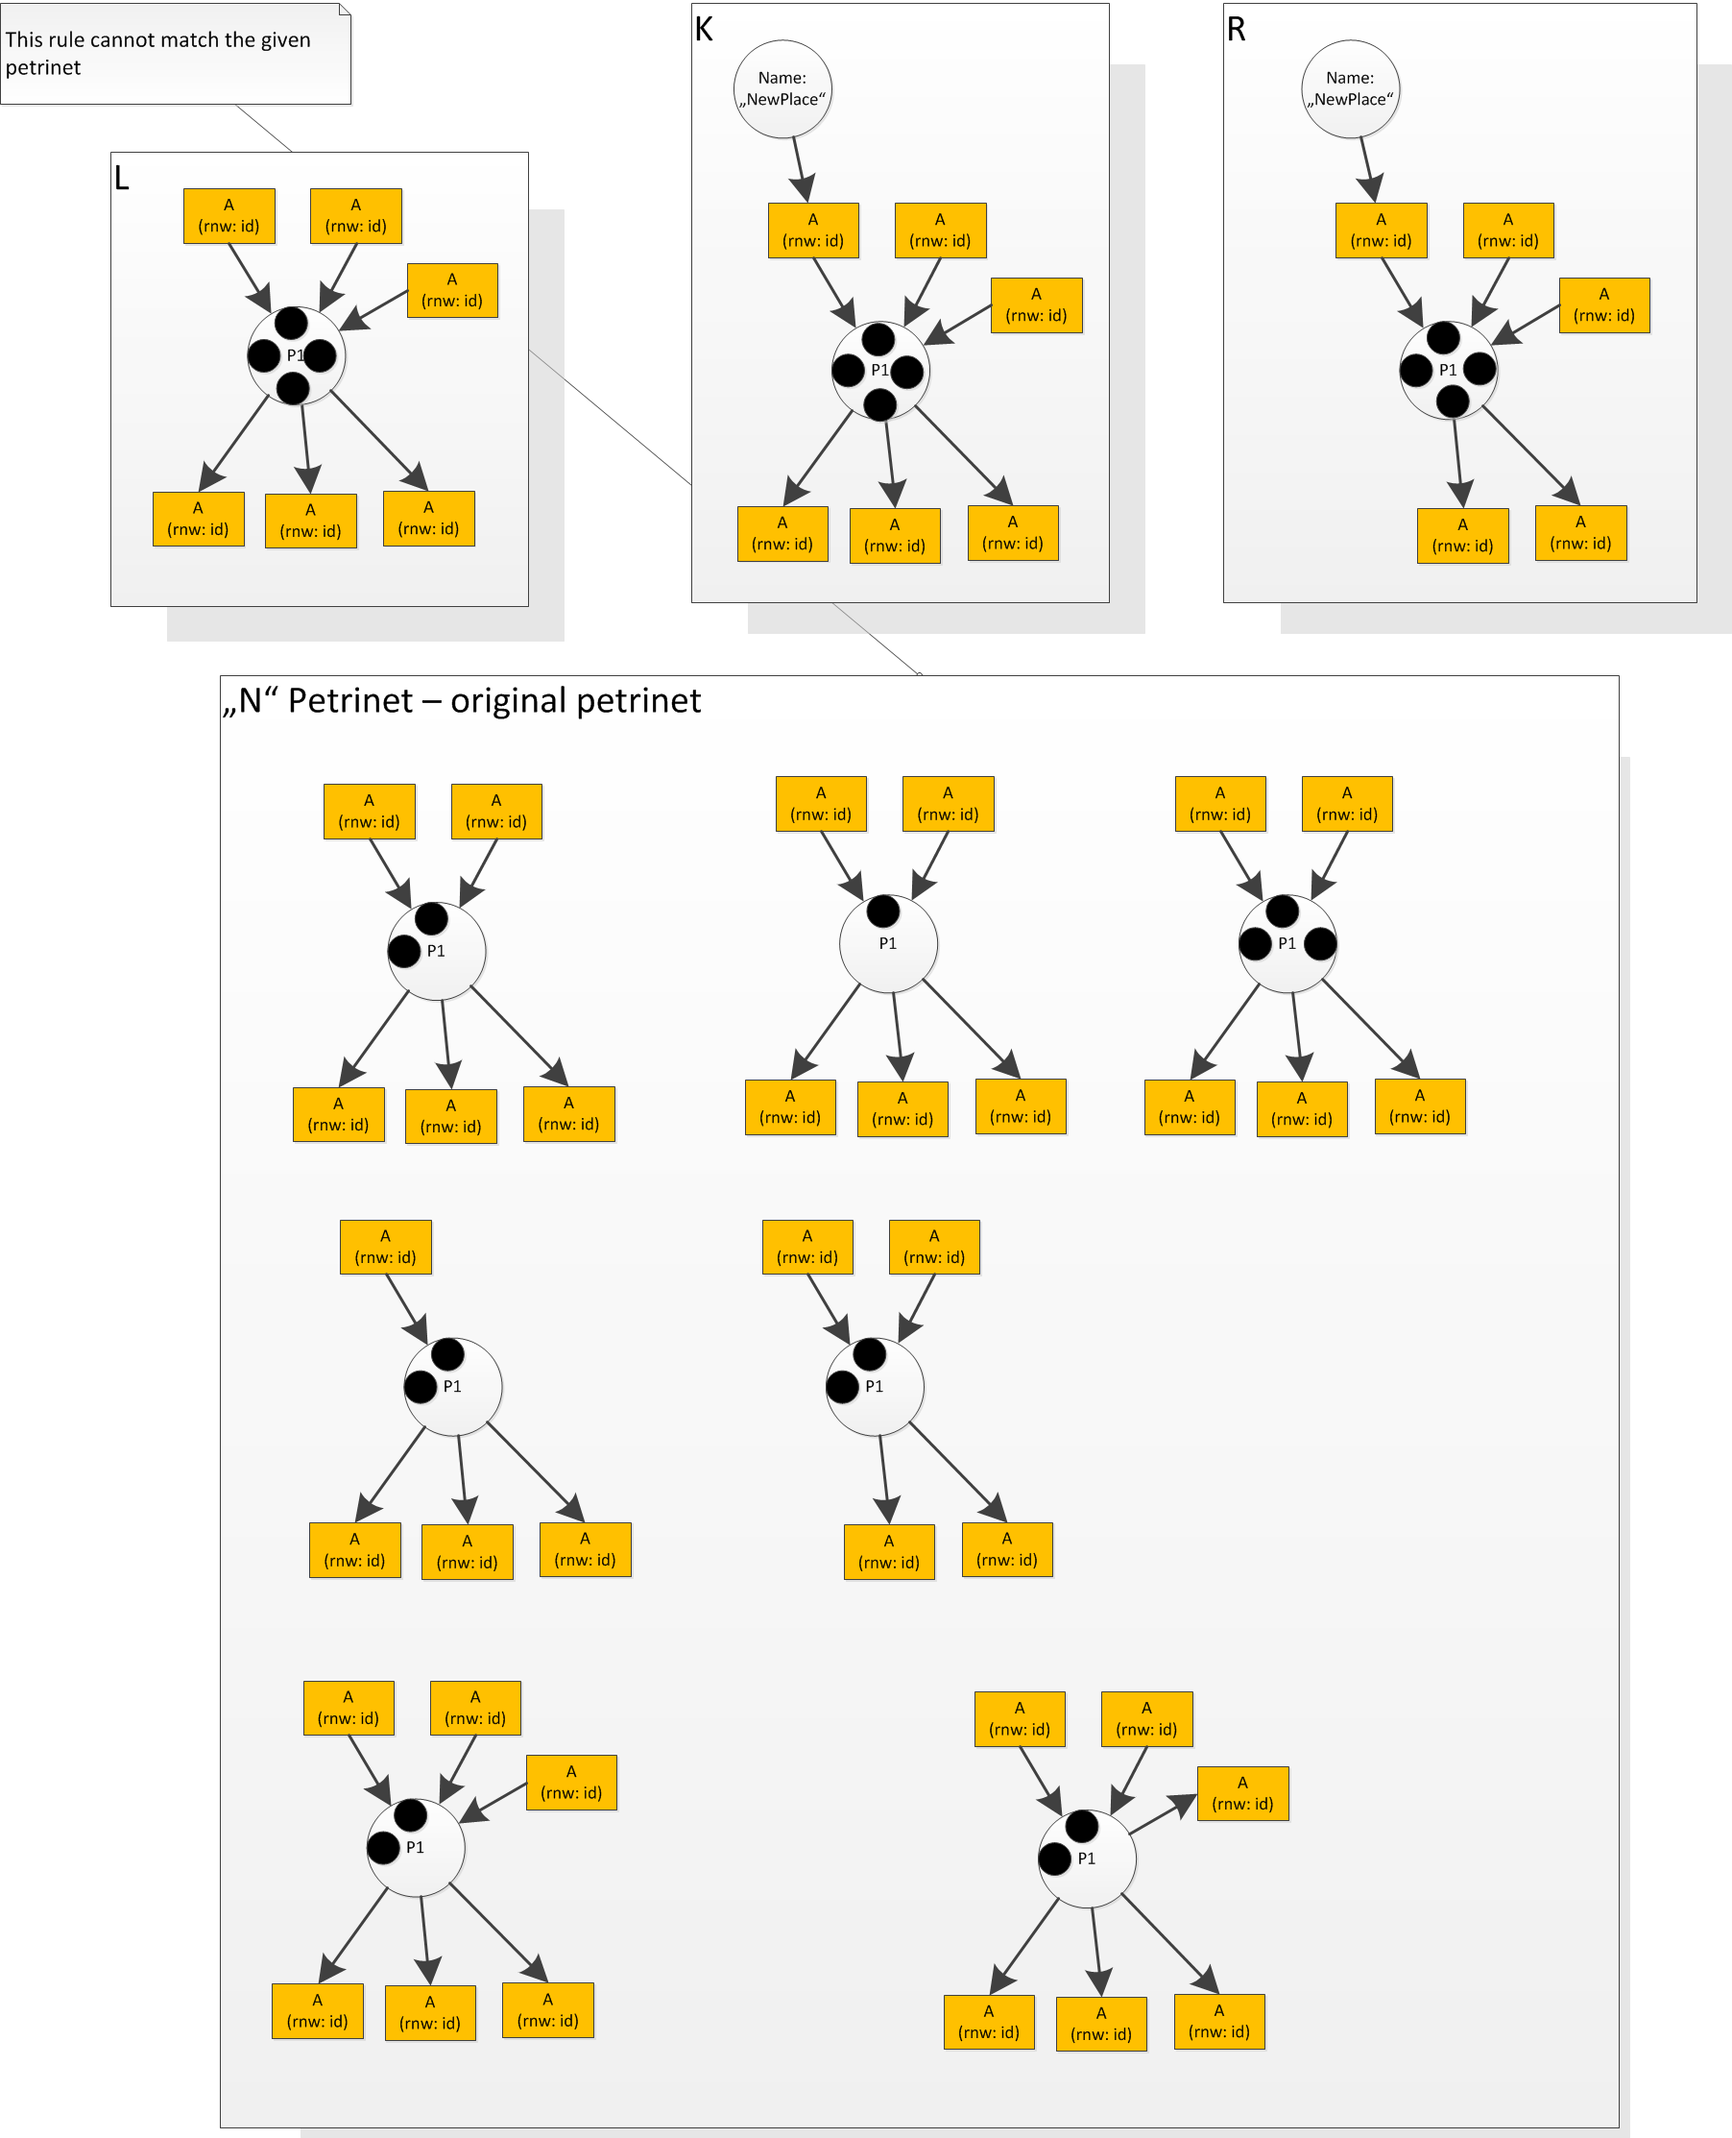
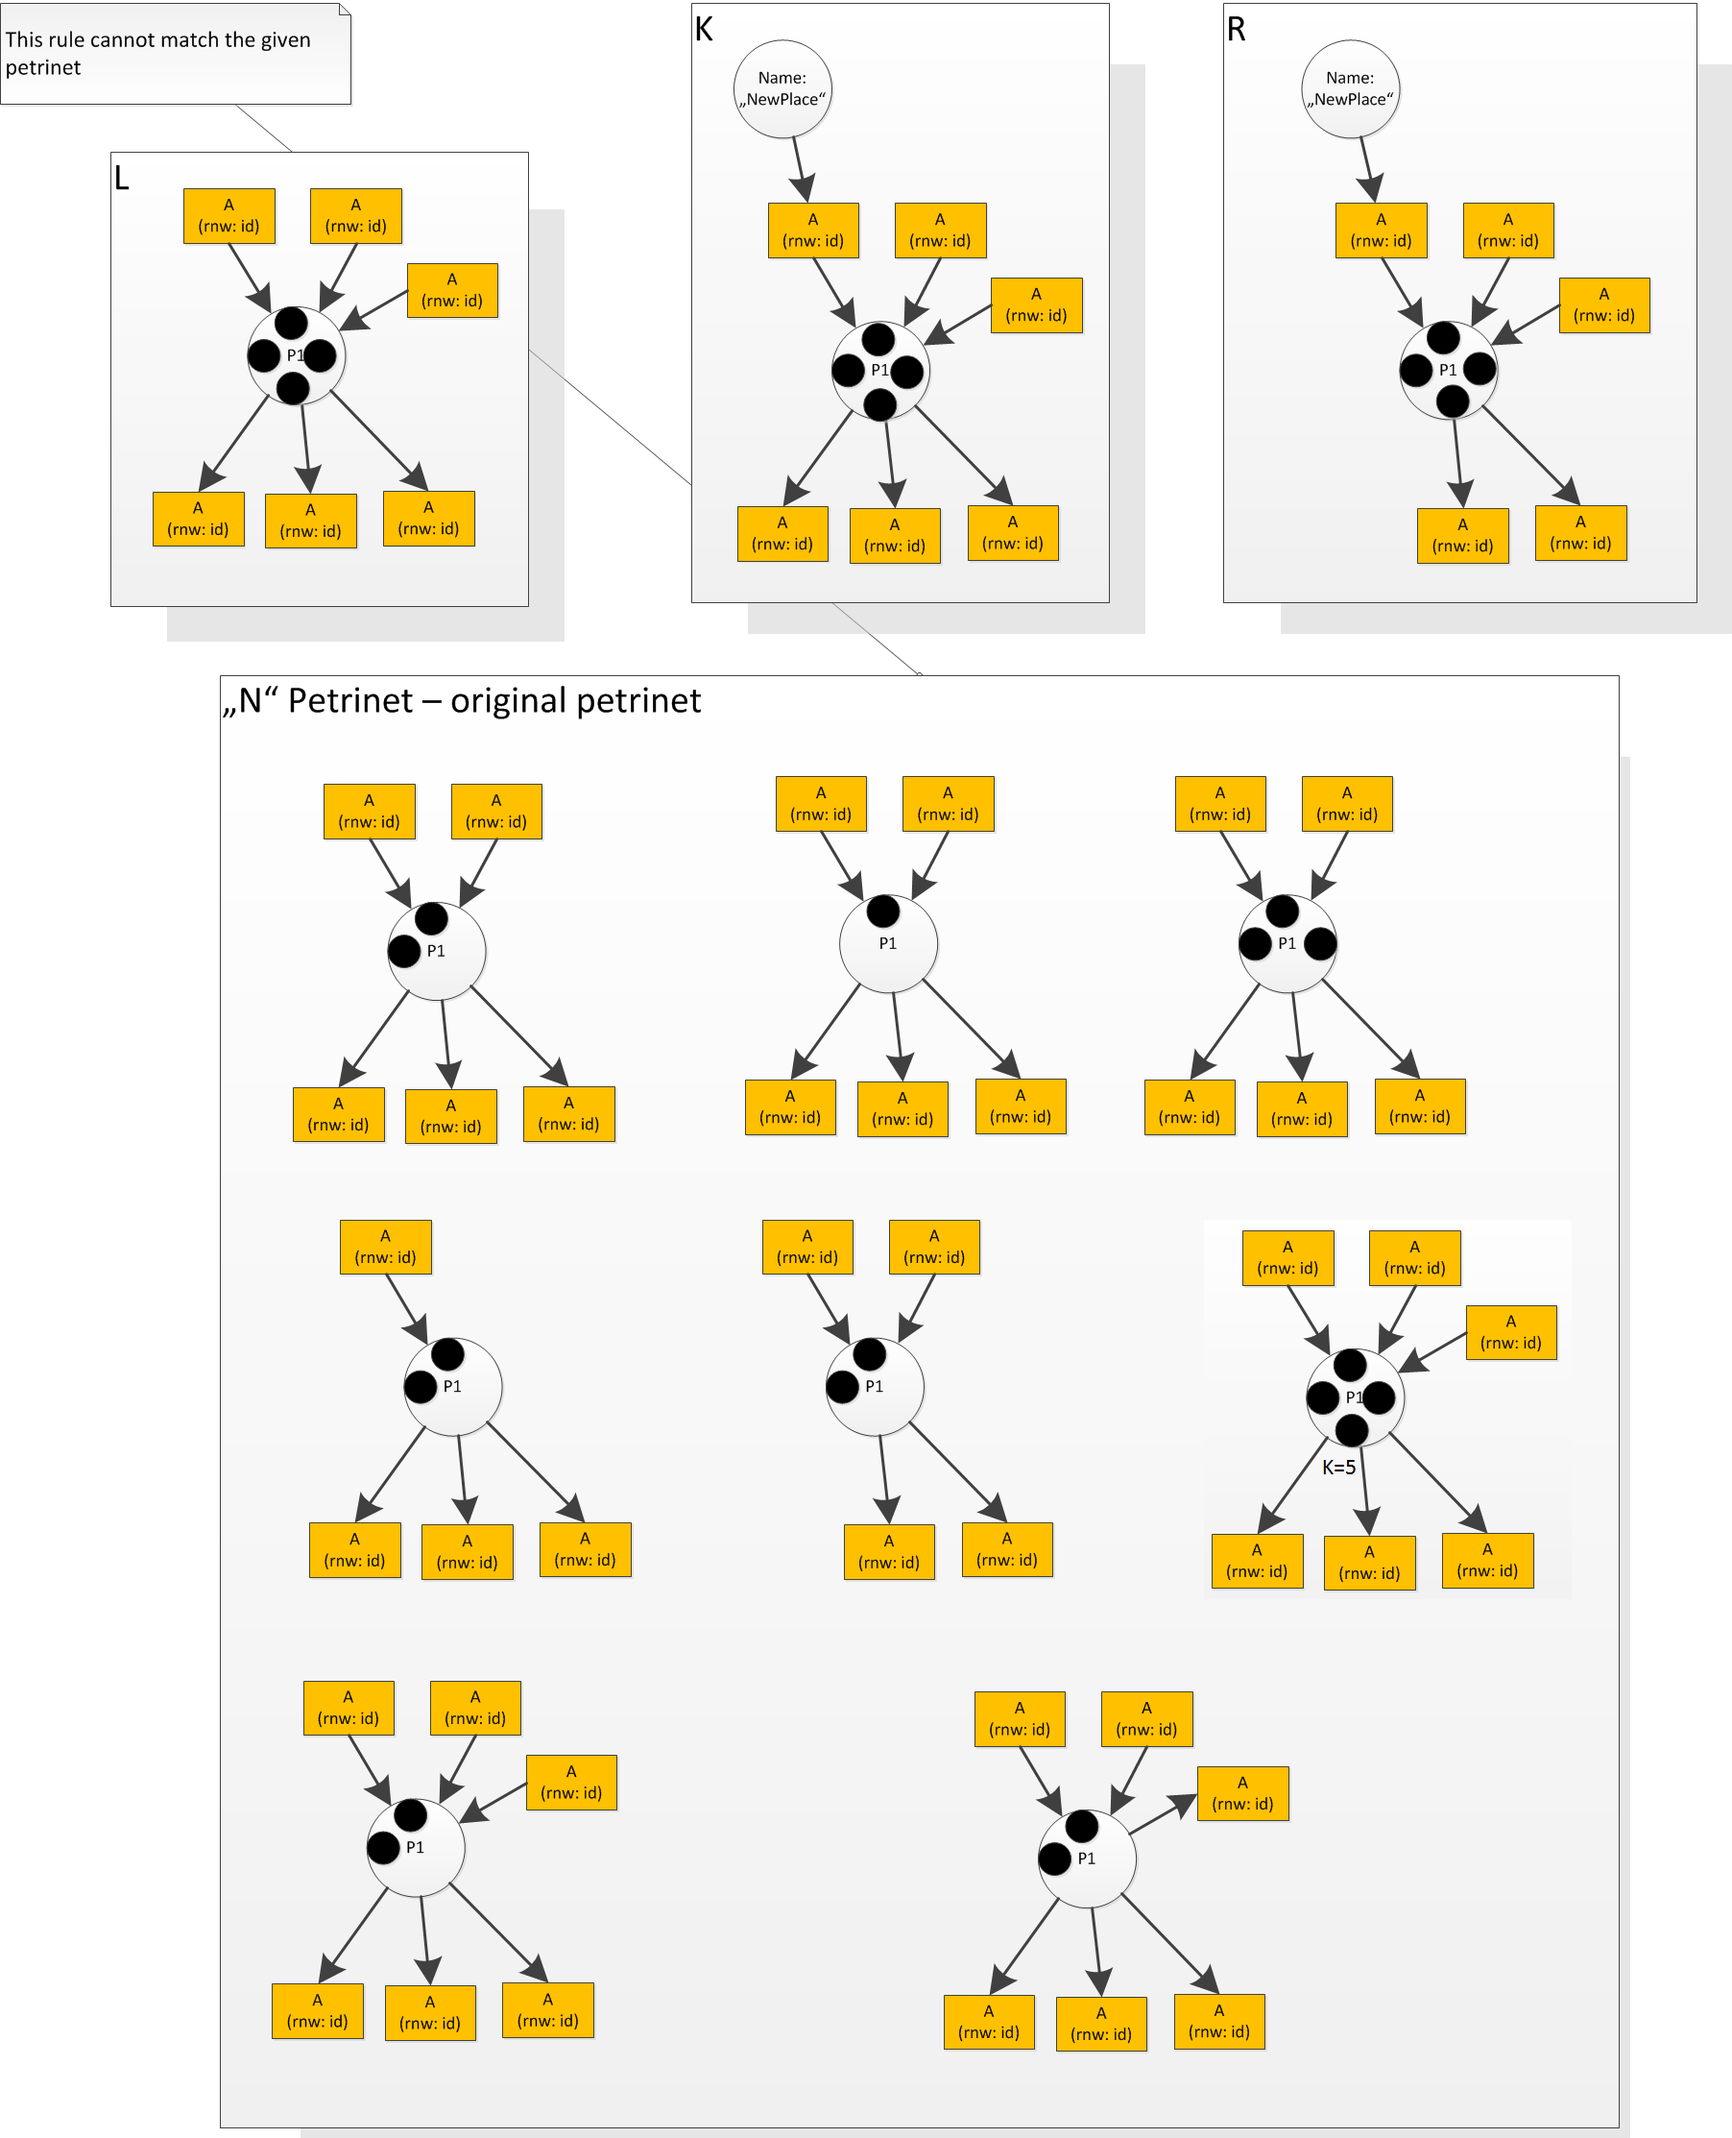
Testfall: allTests->TransformationSuite->Rule7Test->Rule7Data.getnPetrinet->MorphismData.getPetrinetIsomorphismPlacesTo() Neues N-Netz (identisch zu L aber mit zusätzlicher Kapazität) hinzugefügt.

Changed region(s): [[0.6829, 0.558, 0.9002, 0.7439]]

diff --git a/test/data/MorphismData.java b/test/data/MorphismData.java
@@ -340,6 +340,35 @@ public class MorphismData {
 		p7.setMark(2);
 		
 		
+		// The matching subnet capacity is to high
+		Place p8 = result.addPlace("P1");
+		idsMatchedPlaces.add(p8.getId());
+
+								
+		Transition t81 = result.addTransition("A", renewId);
+		Transition t82 = result.addTransition("A", renewId);
+		Transition t83 = result.addTransition("A", renewId);
+		Transition t84 = result.addTransition("A", renewId);
+		Transition t85 = result.addTransition("A", renewId);
+		Transition t86 = result.addTransition("A", renewId);
+								
+		// pre
+		result.addPostArc("", t81, p8);
+		result.addPostArc("", t82, p8);
+		result.addPostArc("", t83, p8);
+								
+		//post
+		result.addPreArc("", p8, t84);
+		result.addPreArc("", p8, t85);
+		result.addPreArc("", p8, t86);
+		
+		//capacity
+		p8.setCapacity(4);
+								
+		//mark
+		p8.setMark(4);
+
+		
 		return result;
 	}
 	
